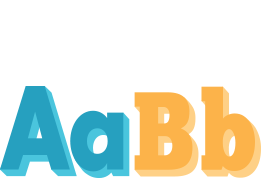
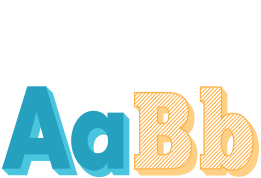
design v2

diff --git a/stylesheets/layout.css b/stylesheets/layout.css
@@ -229,10 +229,8 @@ nav {
   padding-top: 8px;
   padding-bottom: 5px;
   margin-bottom: 10px; }
-  nav div.container {
-    max-width: 73em; }
-    nav div.container .brand img {
-      height: 31px; }
+  nav div.container .brand img {
+    height: 29px; }
   nav ul.nav-buttons {
     float: right; }
     nav ul.nav-buttons li {
@@ -241,7 +239,8 @@ nav {
         font-size: 11px; }
       nav ul.nav-buttons li a.button.primary {
         margin: 0 10px;
-        padding: 0 25px; }
+        padding-left: 25px;
+        padding-right: 25px; }
 
 .row {
   display: block; }
@@ -250,13 +249,15 @@ nav {
     display: table;
     clear: both; }
 
+input[type=submit] {
+  border-radius: 0; }
+
 .button {
   text-transform: uppercase;
   display: inline-block;
-  line-height: 30px;
   font-weight: bold;
-  font-size: 13px;
-  font-family: Helvetica; }
+  font-family: Helvetica;
+  padding: 8px; }
   .button.primary {
     background-color: #259fbf;
     color: white; }
@@ -264,7 +265,7 @@ nav {
       background-color: #14586a; }
 
 div.container {
-  max-width: 61.0625em;
+  max-width: 73.125em;
   margin-left: auto;
   margin-right: auto; }
   div.container:after {
@@ -279,21 +280,22 @@ div.element {
   font-family: Georgia;
   float: left;
   display: block;
-  margin-right: 1.06838%;
-  width: 26.49573%; }
+  margin-right: 6.21776%;
+  width: 29.18816%; }
   div.element:last-child {
     margin-right: 0; }
   div.element.type a {
     border-bottom: 4px solid #259fbf; }
   div.element.colors a {
-    border-bottom: 4px solid #fbb349; }
+    border-bottom: 4px solid #2db579; }
   div.element.artwork a {
-    border-bottom: 4px solid #ef6959; }
+    border-bottom: 4px solid #f06a5a; }
   div.element a {
-    display: inline-block; }
+    display: inline-block;
+    text-align: center; }
     div.element a img {
-      margin-bottom: 27px;
-      vertical-align: baseline; }
+      width: 76%;
+      margin-bottom: 27px; }
   div.element h4 {
     color: #444;
     text-transform: uppercase;
@@ -305,7 +307,7 @@ div.element {
     margin: 20px; }
 
 div.offset {
-  margin-left: 9.18803%; }
+  margin-left: 8.85148%; }
 
 .headline {
   text-align: center;
@@ -317,28 +319,38 @@ div.offset {
   margin-bottom: 40px; }
 
 .call-to-action {
-  margin-top: 50px;
+  margin-top: 60px;
   letter-spacing: 0px;
   font-size: 11pt;
   text-align: center; }
 
 .subscribe {
-  color: #666666; }
+  color: #666666;
+  margin-top: 15px; }
   .subscribe input {
     display: inline-block;
-    float: left;
-    display: block;
-    margin-right: 1.06838%;
-    width: 100%; }
-    .subscribe input:last-child {
-      margin-right: 0; }
+    font-size: 12px; }
+  .subscribe input[type=email] {
+    height: 35px;
+    width: 28%;
+    padding: 10px; }
+    .subscribe input[type=email]::-webkit-input-placeholder {
+      color: #ddd;
+      text-transform: uppercase; }
+    .subscribe input[type=email]::-moz-placeholder {
+      color: #ddd;
+      text-transform: uppercase; }
+    .subscribe input[type=email]:-moz-placeholder {
+      color: #ddd;
+      text-transform: uppercase; }
+    .subscribe input[type=email]:-ms-input-placeholder {
+      color: #ddd;
+      text-transform: uppercase; }
   .subscribe input[type=submit] {
-    float: left;
-    display: block;
-    margin-right: 1.06838%;
-    width: 100%; }
-    .subscribe input[type=submit]:last-child {
-      margin-right: 0; }
+    border-radius: none;
+    border: 1px solid #259fbf;
+    padding: 8px 20px;
+    height: 33px; }
 
 .footer {
   margin-top: 30px;

diff --git a/stylesheets/sass/layout.scss b/stylesheets/sass/layout.scss
@@ -6,7 +6,8 @@
 $white: #fff;
 $gray: #f3f3f3;
 $darkGray: #666;
-$red: #ef6959;
+$red: #f06a5a;
+$green: #2db579;
 $yellow: #fbb349;
 $blue: #259fbf;
 $black: #333;
@@ -37,9 +38,8 @@ nav {
   padding-bottom: 5px;
   margin-bottom: 10px;
   div.container {
-    max-width: 73em;
     .brand img {
-      height: 31px;
+      height: 29px;
     }
   }
   ul.nav-buttons {
@@ -48,7 +48,8 @@ nav {
       a { font-size: 11px; }
       a.button.primary {
         margin: 0 10px;
-        padding: 0 25px;
+        padding-left: 25px;
+        padding-right: 25px;
       }
       display: inline-block;
     }
@@ -59,13 +60,15 @@ nav {
   @include row;
 }
 
+input[type=submit] {
+  border-radius: 0;
+}
 .button {
   text-transform: uppercase;
   display: inline-block;
-  line-height: 30px;
   font-weight: bold;
-  font-size: 13px;
   font-family: Helvetica;
+  padding: 8px;
   &.primary {
     &:hover {
       background-color: darken($blue, 20%);
@@ -83,15 +86,16 @@ div.element {
   color: $darkGray;
   line-height: 1.3;
   font-family: Georgia;
-  @include span-columns(3);
+  @include span-columns(4);
   &.type a { border-bottom: 4px solid $blue; }
-  &.colors a { border-bottom: 4px solid $yellow; }
+  &.colors a { border-bottom: 4px solid $green; }
   &.artwork a { border-bottom: 4px solid $red; }
   a {
     display: inline-block;
+    text-align: center;
     img {
+      width: 76%;
       margin-bottom: 27px;
-      vertical-align: baseline;
     }
   }
   h4 {
@@ -121,7 +125,7 @@ div.offset {
 }
 
 .call-to-action {
-  margin-top: 50px;
+  margin-top: 60px;
   letter-spacing: 0px;
   font-size: 11pt;
   text-align: center;
@@ -129,12 +133,25 @@ div.offset {
 
 .subscribe {
   color: $darkGray;
+  margin-top: 15px;
   input {
     display: inline-block;
-    @include span-columns(11);
+    font-size: 12px;
+  }
+  input[type=email] {
+    height: 35px;
+    width: 28%;
+    padding: 10px;
+    @include placeholder {
+      color: #ddd;
+      text-transform: uppercase;
+    }
   }
   input[type=submit] {
-    @include span-columns(11);
+    border-radius: none;
+    border: 1px solid $blue;
+    padding: 8px 20px;
+    height: 33px;
   }
 }
 .footer {

diff --git a/index.html b/index.html
@@ -7,10 +7,10 @@
   <body>
     <nav>
       <div class='container'>
-        <span class='brand'><img src="images/logo.png" /></span>
+        <span class='brand'><img src="images/brand-logo.png" /></span>
         <ul class='nav-buttons'>
-          <li><a href="#" class='button primary'>Sign Up</a></li>
           <li><a href="#" class='button'>Log In</a></li>
+          <li><a href="#" class='button primary'>Sign Up</a></li>
         </ul>
       </div>
     </nav>
@@ -28,14 +28,14 @@
           <h4>Typography</h4>
           Lorem ipsum dolor sit amet, consectetur adipisicing elit, sed do eiusmod tempor incididunt ut labore et dolore magna aliqua. Ut enim ad minim veniam, quis nostrud exercitation ullamco laboris nisi ut aliquip ex ea commodo consequat.
         </div>
-        <div class='offset element colors'>
+        <div class='element colors'>
           <a href='#'>
             <img src="images/color-icon.png" />
           </a>
           <h4>Colors</h4>
           Lorem ipsum dolor sit amet, consectetur adipisicing elit, sed do eiusmod tempor incididunt ut labore et dolore magna aliqua. Ut enim ad minim veniam, quis nostrud exercitation.
         </div>
-        <div class='offset element artwork'>
+        <div class='element artwork'>
           <a href='#'>
             <img src="images/artwork-icon.png" />
           </a>

diff --git a/stylesheets/sass/_grid-settings.scss b/stylesheets/sass/_grid-settings.scss
@@ -1,10 +1,10 @@
 @import "neat/neat-helpers"; // or "neat-helpers" when in Rails
 
 // Change the grid settings
-$column: 190px;
-$gutter: 25px;
-$grid-columns: 11;
-$max-width: em(977);
+// $column: 105em;
+$gutter: 10em;
+// $grid-columns: 11;
+$max-width: em(1170);
 
 // Define your breakpoints
 $tablet: new-breakpoint(max-width 768px 8);
